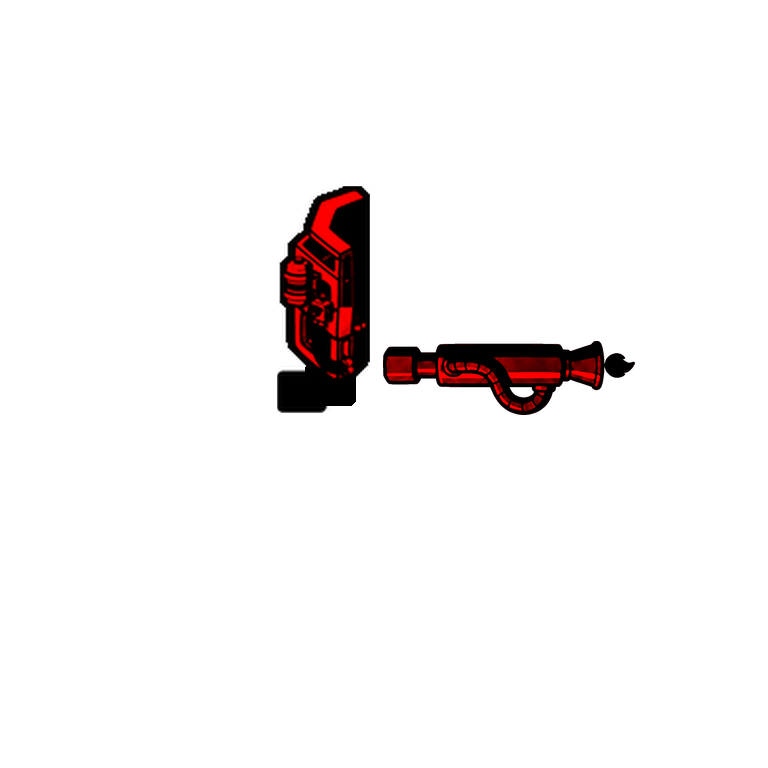
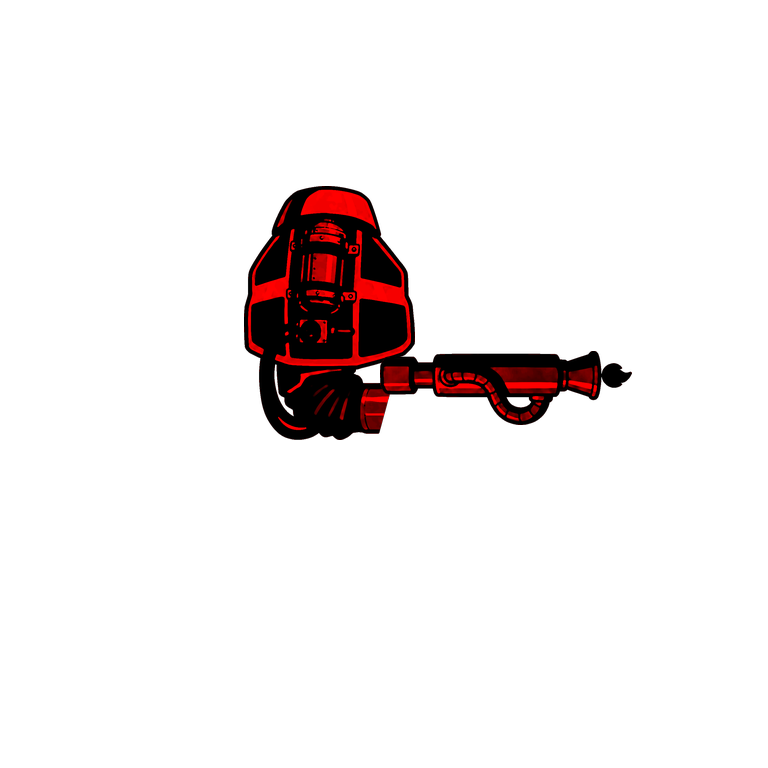
Bughunter side view: own side-view pauldron paintings for the fuel-injection and pneumatic plates
Claude-Session: https://claude.ai/code/session_01GM4XsNt8FF8EEgy8oUJDKj

Changed region(s): [[0.3125, 0.2188, 0.8438, 0.5938]]

diff --git a/Source/Art/suit_kit.py b/Source/Art/suit_kit.py
@@ -227,7 +227,12 @@ def build(spec, out):
         A_ = pieces[('ArmL', 'east')]
         ab = bbox(A_.tex); wname = spec['weapon_l']
         ey = ab[1] + int((ab[3] - ab[1]) * 0.80)                   # the elbow, at the end of the ribbed hose
-        if spec.get('east_plate_from_front'):
+        if wname in spec.get('east_plates', {}):
+            # this suit's own side-view plate painting (pauldron + elbow) replaces the painted heavy arm, same box
+            A_ = Layer(); pieces[('ArmL', 'east')] = A_
+            A_.put(part(spec['east_plates'][wname]), (ab[0] + ab[2]) / 2, top=ab[1], h=ab[3] - ab[1])
+            ab = bbox(A_.tex); ey = ab[1] + int((ab[3] - ab[1]) * 0.80)
+        elif spec.get('east_plate_from_front'):
             # this suit's own plate (light frame + weapon hardware) replaces the painted heavy one:
             # its outer face, i.e. the front-view plate, over a ribbed swivel; the weapon hangs at its cuff
             P_ = Layer(); P_.put_assembly(f'{src}/south_plateLfull.png', f'{src}/south_plateLfull_m.png')
@@ -464,7 +469,8 @@ def bughunter_spec(sp):
     if os.environ.get('JUMP', '1') == '1':          # the jump-pack backpack (three cells, thrusters)
         s['body'] = dict(s['body'], north=f'{sp}/own/chassis_north_jump.png')
         s['full_east'] = dict(s['full_east'], body_image=f'{sp}/own/full_east_noarm_jump.png')
-    s['east_plate_from_front'] = True                  # its light plates, not the Bulwark's painted side plate
+    # its light plates in the side view (pauldron + elbow paintings), not the Bulwark's painted heavy arm
+    s['east_plates'] = {'flamer': f'{sp}/own/plate_east_fuel.png', 'hammer': f'{sp}/own/plate_east_pneumatic.png'}
     return s
 
 

diff --git a/docs/STYLE_GUIDE.md b/docs/STYLE_GUIDE.md
@@ -110,8 +110,10 @@ KITSRC=.../kit_src EXPORT=1`. Where these come from:
   - `NEST=0` keeps the light frame in front of the chest.
   - The export also writes `south_plate{L,R}base`, the plain plate. The kit uses it to place the cuff,
     so hoses don't push the weapon down, and to draw the plate in the back view.
-  - In the side view, `east_plate_from_front` draws the suit's own plate instead of the painted heavy
-    one.
+  - In the side view, `east_plates` maps each weapon to the suit's own side-view pauldron painting
+    (`own/plate_east_fuel.png`, `own/plate_east_pneumatic.png`), drawn in the painted heavy arm's box.
+    Both are repaints of the Bulwark's painted side arm: an open frame with a solid top cap, then the
+    hardware swapped. Giving the generator a front-view plate as a reference only gets front views back.
 - **Jump pack:** `own/chassis_north_jump.png` (three cells, thrusters) and `own/full_east_noarm_jump.png`.
   `JUMP=0` builds the plain backpack.
 Shared with the Bulwark (symlinked): side and back body, legs, shoulder plates, all weapon views.
